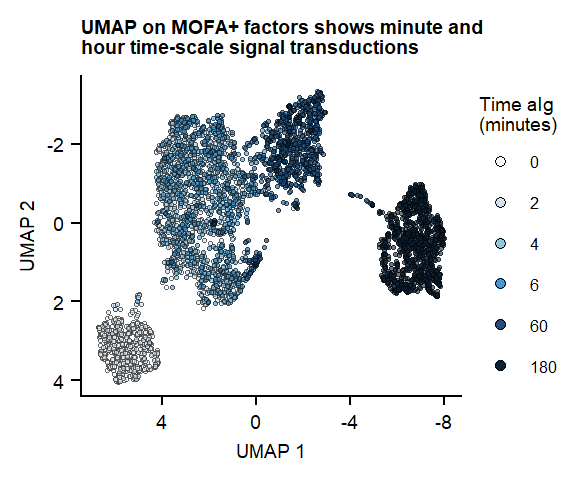
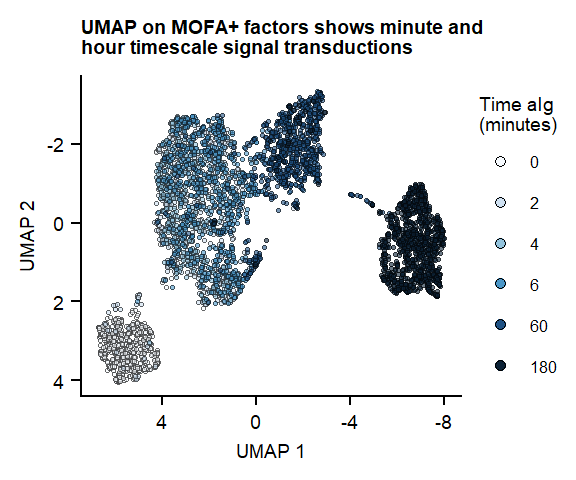
Build site.

Changed region(s): [[0.2812, 0.0625, 0.75, 0.125]]

diff --git a/docs/MOFAaIg.html b/docs/MOFAaIg.html
@@ -433,7 +433,7 @@ div.tocify {
 <div class="tab-content">
 <div id="summary" class="tab-pane fade in active">
 <p>
-<strong>Last updated:</strong> 2020-11-26
+<strong>Last updated:</strong> 2020-12-01
 </p>
 <p>
 <strong>Checks:</strong> <span class="glyphicon glyphicon-ok text-success" aria-hidden="true"></span> 7 <span class="glyphicon glyphicon-exclamation-sign text-danger" aria-hidden="true"></span> 0
@@ -524,16 +524,16 @@ This reproducible <a href="http://rmarkdown.rstudio.com">R Markdown</a> analysis
 <div class="panel panel-default">
 <div class="panel-heading">
 <p class="panel-title">
-<a data-toggle="collapse" data-parent="#workflowr-checks" href="#strongRepositoryversionstrongahrefhttpsgithubcomjessievbQuRIEseqanalysistree1d2b544254b3c41a666d5f2ffb29ce4f28601809targetblank1d2b544a"> <span class="glyphicon glyphicon-ok text-success" aria-hidden="true"></span> <strong>Repository version:</strong> <a href="https://github.com/jessievb/QuRIEseq_analysis/tree/1d2b544254b3c41a666d5f2ffb29ce4f28601809" target="_blank">1d2b544</a> </a>
+<a data-toggle="collapse" data-parent="#workflowr-checks" href="#strongRepositoryversionstrongahrefhttpsgithubcomjessievbQuRIEseqanalysistreef6b2e5d25419be3fd893e3e088ac924a2cec69batargetblankf6b2e5da"> <span class="glyphicon glyphicon-ok text-success" aria-hidden="true"></span> <strong>Repository version:</strong> <a href="https://github.com/jessievb/QuRIEseq_analysis/tree/f6b2e5d25419be3fd893e3e088ac924a2cec69ba" target="_blank">f6b2e5d</a> </a>
 </p>
 </div>
[2 lines of base64/hex data omitted]
 <div class="panel-body">
 <p>
 Great! You are using Git for version control. Tracking code development and connecting the code version to the results is critical for reproducibility.
 </p>
 <p>
-The results in this page were generated with repository version <a href="https://github.com/jessievb/QuRIEseq_analysis/tree/1d2b544254b3c41a666d5f2ffb29ce4f28601809" target="_blank">1d2b544</a>. See the <em>Past versions</em> tab to see a history of the changes made to the R Markdown and HTML files.
+The results in this page were generated with repository version <a href="https://github.com/jessievb/QuRIEseq_analysis/tree/f6b2e5d25419be3fd893e3e088ac924a2cec69ba" target="_blank">f6b2e5d</a>. See the <em>Past versions</em> tab to see a history of the changes made to the R Markdown and HTML files.
 </p>
 <p>
 Note that you need to be careful to ensure that all relevant files for the analysis have been committed to Git prior to generating the results (you can use <code>wflow_publish</code> or <code>wflow_git_commit</code>). workflowr only checks the R Markdown file, but you know if there are other scripts or data files that it depends on. Below is the status of the Git repository when the results were generated:
@@ -542,7 +542,6 @@ Note that you need to be careful to ensure that all relevant files for the analy
 Ignored files:
     Ignored:    .Rhistory
     Ignored:    .Rproj.user/
-    Ignored:    analysis/figure/
     Ignored:    data/raw/
     Ignored:    output/MOFA_aIg.hdf5
     Ignored:    output/MOFA_aIg.rds
@@ -593,6 +592,40 @@ Message
 </tr>
 </thead>
 <tbody>
+<tr>
+<td>
+Rmd
+</td>
+<td>
+<a href="https://github.com/jessievb/QuRIEseq_analysis/blob/f6b2e5d25419be3fd893e3e088ac924a2cec69ba/analysis/MOFAaIg.Rmd" target="_blank">f6b2e5d</a>
+</td>
+<td>
+Jessie van Buggenum
+</td>
+<td>
+2020-12-01
+</td>
+<td>
+small edits panel titles
+</td>
+</tr>
+<tr>
+<td>
+html
+</td>
+<td>
+<a href="https://rawcdn.githack.com/jessievb/QuRIEseq_analysis/d8ba888f410990268a92e0b3549a7990a82037db/docs/MOFAaIg.html" target="_blank">d8ba888</a>
+</td>
+<td>
+Jessie van Buggenum
+</td>
+<td>
+2020-11-26
+</td>
+<td>
+Build site.
+</td>
+</tr>
 <tr>
 <td>
 Rmd
@@ -1125,7 +1158,7 @@ plot.umap.all &lt;- ggplot(plot.umap.data, aes(x=x, y = y, fill = color_by))+
   scale_x_reverse()+
   scale_y_reverse()+
   add.textsize +
-  labs(title = &quot;UMAP on MOFA+ factors shows minute and \nhour time-scale signal transductions&quot;, x = &quot;UMAP 1&quot;, y = &quot;UMAP 2&quot;)
+  labs(title = &quot;UMAP on MOFA+ factors shows minute and \nhour timescale signal transductions&quot;, x = &quot;UMAP 1&quot;, y = &quot;UMAP 2&quot;)
 
 ## UMAP legend
 legend.umap &lt;- get_legend( ggplot(plot.umap.data, aes(x=x, y = y, fill = color_by))+
@@ -1133,7 +1166,7 @@ legend.umap &lt;- get_legend( ggplot(plot.umap.data, aes(x=x, y = y, fill = colo
   theme_half_open() +
   scale_fill_manual(values = colorgradient6_manual, labels = c(labels), name = &quot;Time aIg \n(minutes)&quot;,)+
   add.textsize +
-  labs(title = &quot;UMAP on MOFA+ factors shows minute and \nhour time-scale signal transductions&quot;, x = &quot;UMAP 1&quot;, &quot;y = UMAP 2&quot;))
+  labs(title = &quot;UMAP on MOFA+ factors shows minute and \nhour timescale signal transductions&quot;, x = &quot;UMAP 1&quot;, &quot;y = UMAP 2&quot;))
 legend.umap &lt;- as_ggplot(legend.umap)</code></pre>
 <pre class="r"><code>plot_fig1_umap &lt;- plot_grid(plot.umap.all,legend.umap, labels = c(&quot;&quot;), label_size = 10, ncol = 2, rel_widths = c(1, 0.2))
 
@@ -1151,14 +1184,14 @@ seu_combined_selectsamples &lt;- RunPCA(seu_combined_selectsamples, assay = &quo
 
 plot.PCA.RNA &lt;- DimPlot(seu_combined_selectsamples, reduction = &quot;pca.RNA&quot;, group.by = &quot;condition&quot;, pt.size =0.2) +
   scale_color_manual(values = colorgradient6_manual2, labels = c(labels), name = &quot;Time aIg&quot;,)+
-  labs(title = &quot;RNA PCA separates cells \nat hour time-scale&quot;, x= &quot;RNA PC 1&quot;, y = &quot; RNA PC 2&quot;) +
+  labs(title = &quot;RNA PCA separates cells \nat hour timescale&quot;, x= &quot;RNA PC 1&quot;, y = &quot; RNA PC 2&quot;) +
   add.textsize +
   theme(legend.position = &quot;none&quot;)
 
 
 plot.PCA.PROT &lt;- DimPlot(seu_combined_selectsamples, reduction = &quot;pca.PROT&quot;, group.by = &quot;condition&quot;, pt.size = 0.2) +
   scale_color_manual(values = colorgradient6_manual2, labels = c(labels), name = &quot;Time aIg&quot;,)+
-  labs(title = &quot;(phospho-)protein PCA separates cells\nat minutes time-scale&quot;, x= &quot;Protein PC 1&quot;, y = &quot;Protein PC 2&quot;) +
+  labs(title = &quot;(Phospho)protein PCA separates cells\nat minutes timescale&quot;, x= &quot;Protein PC 1&quot;, y = &quot;Protein PC 2&quot;) +
   add.textsize +
   #  scale_x_reverse()+
   theme(legend.position = &quot;none&quot;)
@@ -1440,7 +1473,7 @@ plot.violin.factor3 &lt;- plot.factor.group1.Factor3 +
   annotate(geom=&quot;text&quot;, x=1.5, y=4.3, label=&quot;minutes&quot;, size = 2,
               color=&quot;grey3&quot;) +
   scale_y_continuous(expand = c(0,0), name = &quot;Factor 3 value&quot;)+
-  labs(title = &quot;Factor 3 captures \nhour time-scale signal transduction&quot;)
+  labs(title = &quot;Factor 3 captures \nhour timescale signal transduction&quot;)
 
 #### protein Loadings factor 1
 
@@ -1465,7 +1498,7 @@ plotdata.rank.PROT.1 &lt;- plotdata.rank.PROT.1 %&gt;%
          ) 
 
 plot.rank.PROT.1 &lt;- ggplot(plotdata.rank.PROT.1, aes(x=Weight, y = Rank, label = highlights)) +
-  labs(title = &quot;(Phospho-)Proteins: &lt;p&gt;&lt;span style=&#39;color:blue4&#39;&gt;BCR &lt;/span&gt;&amp;&lt;span style=&#39;color:red&#39;&gt; JAK1&lt;/span&gt; signaling&quot;, #&lt;span style=&#39;color:blue4&#39;&gt;BCR signaling&lt;/span&gt; and &lt;span style=&#39;color:red&#39;&gt;p-JAK1&lt;/span&gt;
+  labs(title = &quot;(Phospho)proteins: &lt;p&gt;&lt;span style=&#39;color:blue4&#39;&gt;BCR &lt;/span&gt;&amp;&lt;span style=&#39;color:red&#39;&gt; JAK1&lt;/span&gt; signaling&quot;, #&lt;span style=&#39;color:blue4&#39;&gt;BCR signaling&lt;/span&gt; and &lt;span style=&#39;color:red&#39;&gt;p-JAK1&lt;/span&gt;
        x= &quot;Factor 1 loading value&quot;,
        y= &quot;Factor 1 loading rank&quot;) +
   geom_point(size=0.1, color =plotdata.rank.PROT.1$colorvalue, size =1) +
@@ -1787,7 +1820,7 @@ assign(paste0(&quot;plot.violin.rna.&quot;, i), f.violin.rna(data = rnadata ,pro
 }
 
 plot.violin.rna.NEAT1 &lt;- plot.violin.rna.NEAT1 +
-  labs(title = &quot;Expression upregulated genes\n&quot;)+
+  labs(title = &quot;Expression of upregulated genes\n&quot;)+
   add.textsize+
   theme(axis.title.x=element_blank(),
         axis.text.x=element_blank(),
